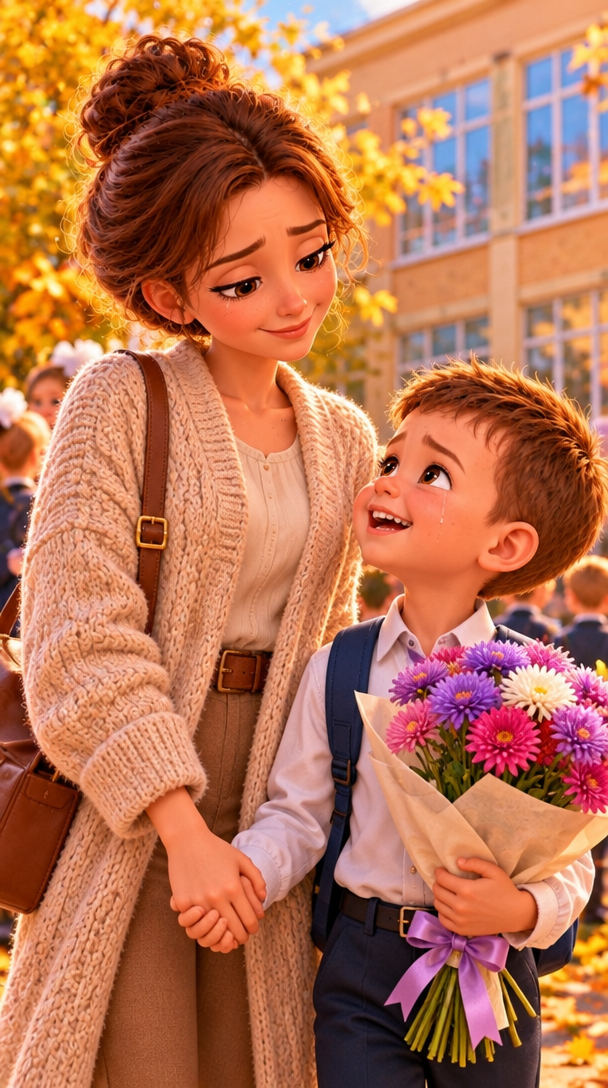
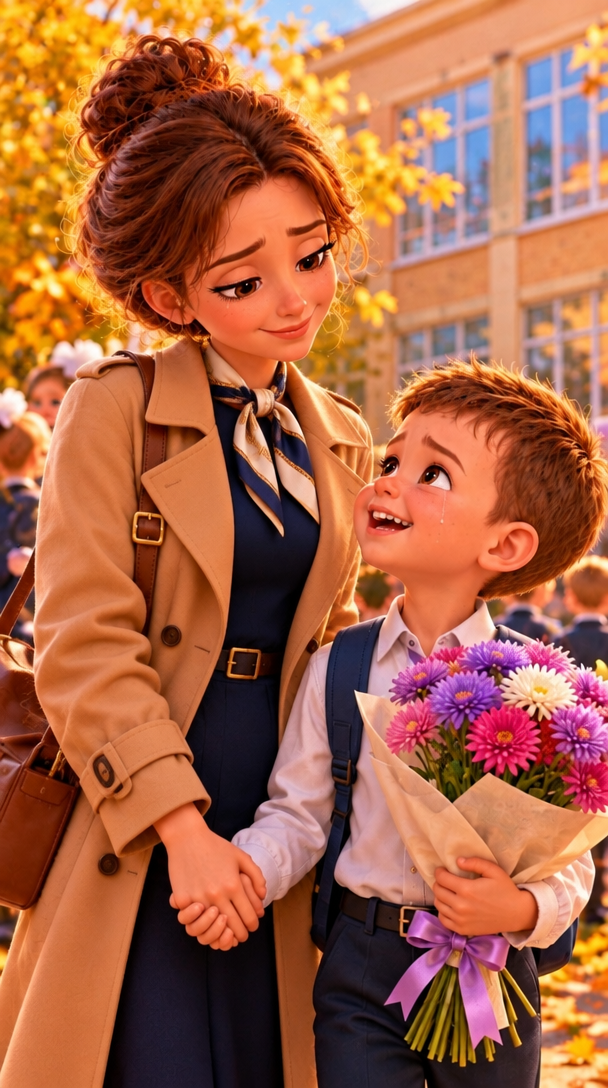
День матери: новые кадры, смена одежды, монтаж на 8 сцен
Claude-Session: https://claude.ai/code/session_01TXwNN2je3RbbmpXYz6m2NX

diff --git a/den-materi/kadry2.py b/den-materi/kadry2.py
@@ -1,0 +1,36 @@
+import os, sys, urllib.request, fal_client
+os.environ.setdefault("FAL_KEY","proxy-injected")
+M="openai/gpt-image-2.6/flare/edit"
+STIL=(" Same warm high-quality 3D animated feature film style (Pixar-like) as the references, soft cinematic light, expressive faces. "
+      "Vertical 9:16. No text, no letters, no logos. Correct anatomy, five fingers.")
+MAMA=(" The mother is the same woman as in image 1 (same face, chestnut-brown hair in a messy bun, brown eyes), about 30 years old."
+      " The boy is the same boy as in image 2 (same face, brown hair), at the age described.")
+def go(out, p, refs):
+    r=fal_client.subscribe(M,arguments={"prompt":p,"image_urls":[fal_client.upload_file(x) for x in refs],
+       "image_size":"portrait_16_9","quality":"medium","num_images":1,"output_format":"png"})
+    urllib.request.urlretrieve(r["images"][0]["url"],out); print(out,"ok",flush=True)
+NEW={
+"a_privivka":"Bright friendly children's clinic room with pastel walls and toys: the mother sits on a chair holding her 1.5-year-old son on her lap, hugging him tightly and holding his little hand, "
+  "comforting him and smiling encouragingly; a kind female nurse in light-blue uniform gently puts a small round plaster on the boy's upper arm; the boy has a tear but is brave. "
+  "The mother wears a soft sage-green turtleneck sweater and jeans (NOT a cardigan).",
+"b_luzhi":"Bright spring day in a city park after rain: the mother and her 3-year-old son jump together into a big puddle holding hands, splashes flying, both laughing happily. "
+  "The mother wears a bright yellow raincoat and blue jeans with rubber boots, the boy wears a red raincoat and green rubber boots. Fresh green trees, sunlight.",
+"c_risuem":"Cozy sunny kitchen: the mother and her 5-year-old son sit at the table drawing together with colorful paints and pencils, the boy shows her his drawing of their family (simple child drawing, no text), "
+  "both laugh, a small smear of paint on their noses. Child drawings are pinned to the fridge behind them. The mother wears a white-and-navy striped t-shirt (NOT a cardigan).",
+}
+k=sys.argv[1]
+if k in NEW:
+    go(f"kadry/{k}.png", NEW[k]+MAMA+STIL+" Images 1 and 2 are only references for the faces and style, do not copy their composition or clothes.",
+       ["kadry/v1/01.png","kadry/v1/02.png"])
+elif k=="02":
+    go("kadry/02.png","Edit image 1: keep EVERYTHING the same (composition, faces, the boy, his clothes and flowers, the school, autumn light, pose, hands), "
+       "ONLY change the mother's clothes: she now wears an elegant dark-navy dress and an open light camel trench coat, a thin silk scarf; the brown leather bag stays. No cardigan. No text.",["kadry/v1/02.png"])
+elif k=="03":
+    go("kadry/03.png","Edit image 1: keep EVERYTHING the same (composition, her face, grey hair, glasses, pose, phone, table, cup, room, light), "
+       "ONLY change her clothes: she now wears a soft dusty-blue knitted turtleneck sweater instead of the beige cardigan and blouse. No text.",["kadry/v1/03.png"])
+elif k=="04":
+    go("kadry/04.png","Edit image 1: keep EVERYTHING the same (composition, camera angle, faces, hair, glasses, the tablet with the cartoon on its screen, hands, room, light), "
+       "ONLY change the clothes: the mother now wears an elegant burgundy silk blouse instead of the beige cardigan, the son wears a dark forest-green knitted sweater. No text.",["kadry/v1/04.png"])
+elif k=="05":
+    go("kadry/05.png","Edit image 1: keep EVERYTHING the same (composition, faces, expressions, tears, hug pose, hands, room, light), "
+       "ONLY change the clothes to match image 2: the mother wears the same elegant burgundy silk blouse, the son wears the same dark forest-green knitted sweater. No text.",["kadry/v1/05.png","kadry/04.png"])

diff --git a/den-materi/montazh.py b/den-materi/montazh.py
@@ -1,10 +1,11 @@
 import subprocess
-D=[3.6,3.6,4.0,4.2,6.0]; X=0.5   # длительность кусков и наплыв
-S=[0.3,0.2,0.3,0.4,0.0]          # с какой секунды клипа брать
+K=["01","a_privivka","b_luzhi","c_risuem","02","03","04","05"]
+D=[3.0,3.0,3.0,3.0,3.0,3.2,3.4,5.5]; X=0.35
+S=[0.6,1.0,0.8,1.0,0.6,0.8,1.0,0.0]
 tot=sum(D)-X*(len(D)-1)
 ins=[]; f=[]
 for i,(d,s) in enumerate(zip(D,S)):
-    ins+=["-i",f"klipy/0{i+1}.mp4"]
+    ins+=["-i",f"klipy/{K[i]}.mp4"]
     f.append(f"[{i}:v]trim={s}:{s+d},setpts=PTS-STARTPTS,fps=30,scale=720:1280:force_original_aspect_ratio=increase,crop=720:1280,setsar=1,format=yuv420p[v{i}]")
 cur="v0"; t=0
 for i in range(1,len(D)):
@@ -13,11 +14,10 @@ for i in range(1,len(D)):
 st=[0]
 for d in D[:-1]: st.append(st[-1]+d-X)
 def ts(x): return f"0:{int(x//60):02d}:{x%60:05.2f}"
-ev=[(st[0]+0.3,st[1]+0.1,"Она не спала ночами,\\Nкогда ты плакал"),
-    (st[1]+0.4,st[2]+0.1,"Плакала от счастья\\Nв твой первый школьный день"),
-    (st[2]+0.4,st[3]+0.1,"И до сих пор\\Nждёт твоего звонка"),
-    (st[3]+0.4,st[4]+0.1,"Теперь твоя очередь\\Nрассказать ей сказку"),
-    (st[4]+1.2,tot,"{\\fs50}Мультфильм о маме\\Nко Дню матери\\N{\\fs38\\c&H00A8E6FF&}Заказы до 22 ноября\\Nссылка в профиле")]
+T=["Она не спала ночами,\\Nкогда ты плакал","Держала за руку,\\Nкогда было страшно","Прыгала с тобой\\Nпо лужам","Хранит все\\Nтвои рисунки",
+   "Плакала от счастья\\Nв твой первый\\Nшкольный день","И до сих пор\\Nждёт твоего звонка","Теперь твоя очередь\\Nрассказать ей сказку"]
+ev=[(st[i]+(0.15 if i==0 else 0.3),st[i+1]+0.1,T[i]) for i in range(7)]
+ev.append((st[7]+0.8,tot,"{\\fs50}Мультфильм о маме\\Nко Дню матери\\N{\\fs38\\c&H00A8E6FF&}Заказы до 22 ноября\\Nссылка в профиле"))
 ass=f"""[Script Info]
 ScriptType: v4.00+
 PlayResX: 720

diff --git a/den-materi/klipy.py b/den-materi/klipy.py
@@ -7,6 +7,9 @@ D={
 "02":"The mother and her son walk forward slowly holding hands, the boy looks up at her and smiles, she wipes a happy tear with her free hand and smiles back. Yellow autumn leaves fall slowly. Slow tracking camera.",
 "03":"The mother looks at her phone hopefully, sighs softly, puts it down on the table next to the cup, then looks at it again. Steam rises from the tea, snow falls outside the window. Very slow camera push-in, quiet melancholic mood.",
 "04":"The mother watches the cartoon on the tablet held in both hands, her eyes fill with tears, she smiles, the son next to her smiles and gently squeezes her shoulder. On the tablet screen the cartoon gently moves with sparkles. Slow camera push-in over her shoulder.",
+"a_privivka":"The mother hugs her little son on her lap and gently strokes his hair, kisses his forehead, the boy stops being scared and smiles at her, the nurse smiles and finishes putting on the plaster. Slow camera push-in.",
+"b_luzhi":"The mother and her little son jump together into the puddle holding hands, water splashes in slow motion, both laugh joyfully, sunlight sparkles in the drops. Slow tracking camera.",
+"c_risuem":"The boy proudly shows his drawing to his mother, she laughs, gently touches the paint on his nose with her finger, he giggles. Sunlight, cozy kitchen. Slow camera push-in.",
 "05":"The son and the mother hug tightly cheek to cheek, swaying gently, she smiles through happy tears, he hugs her closer. Warm light, soft bokeh. Very slow camera push-in.",
 }
 def odin(k):
